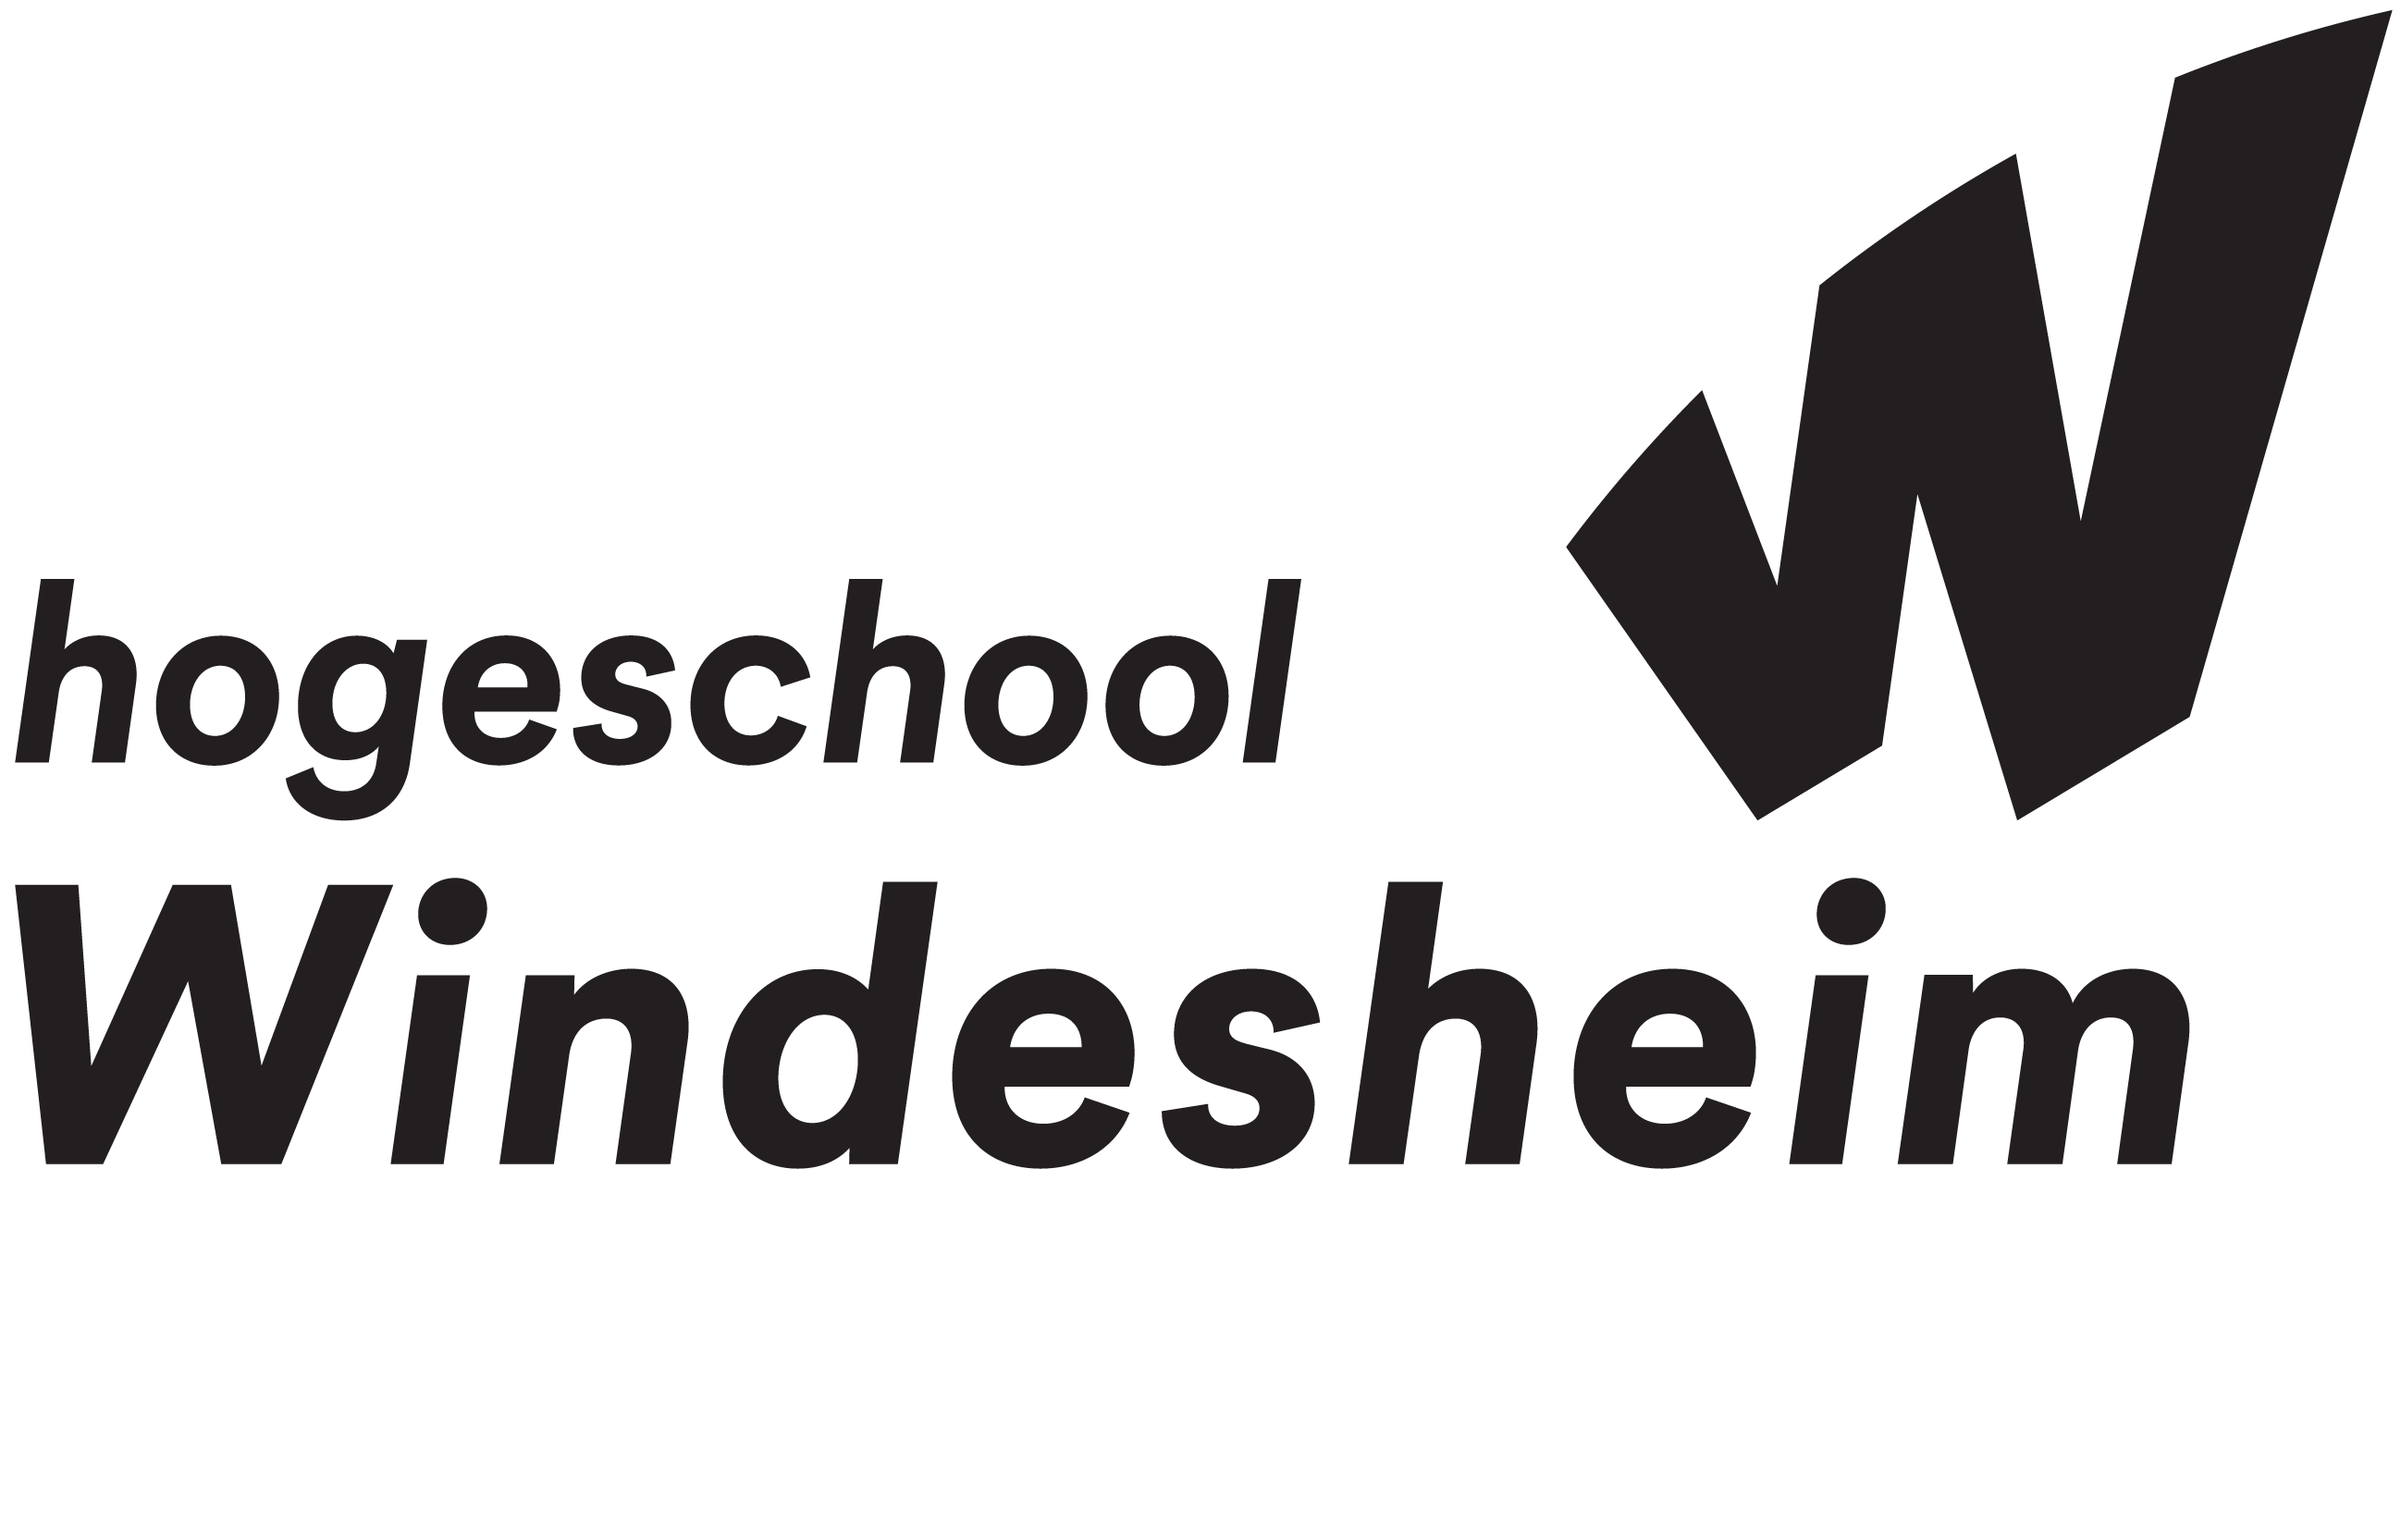
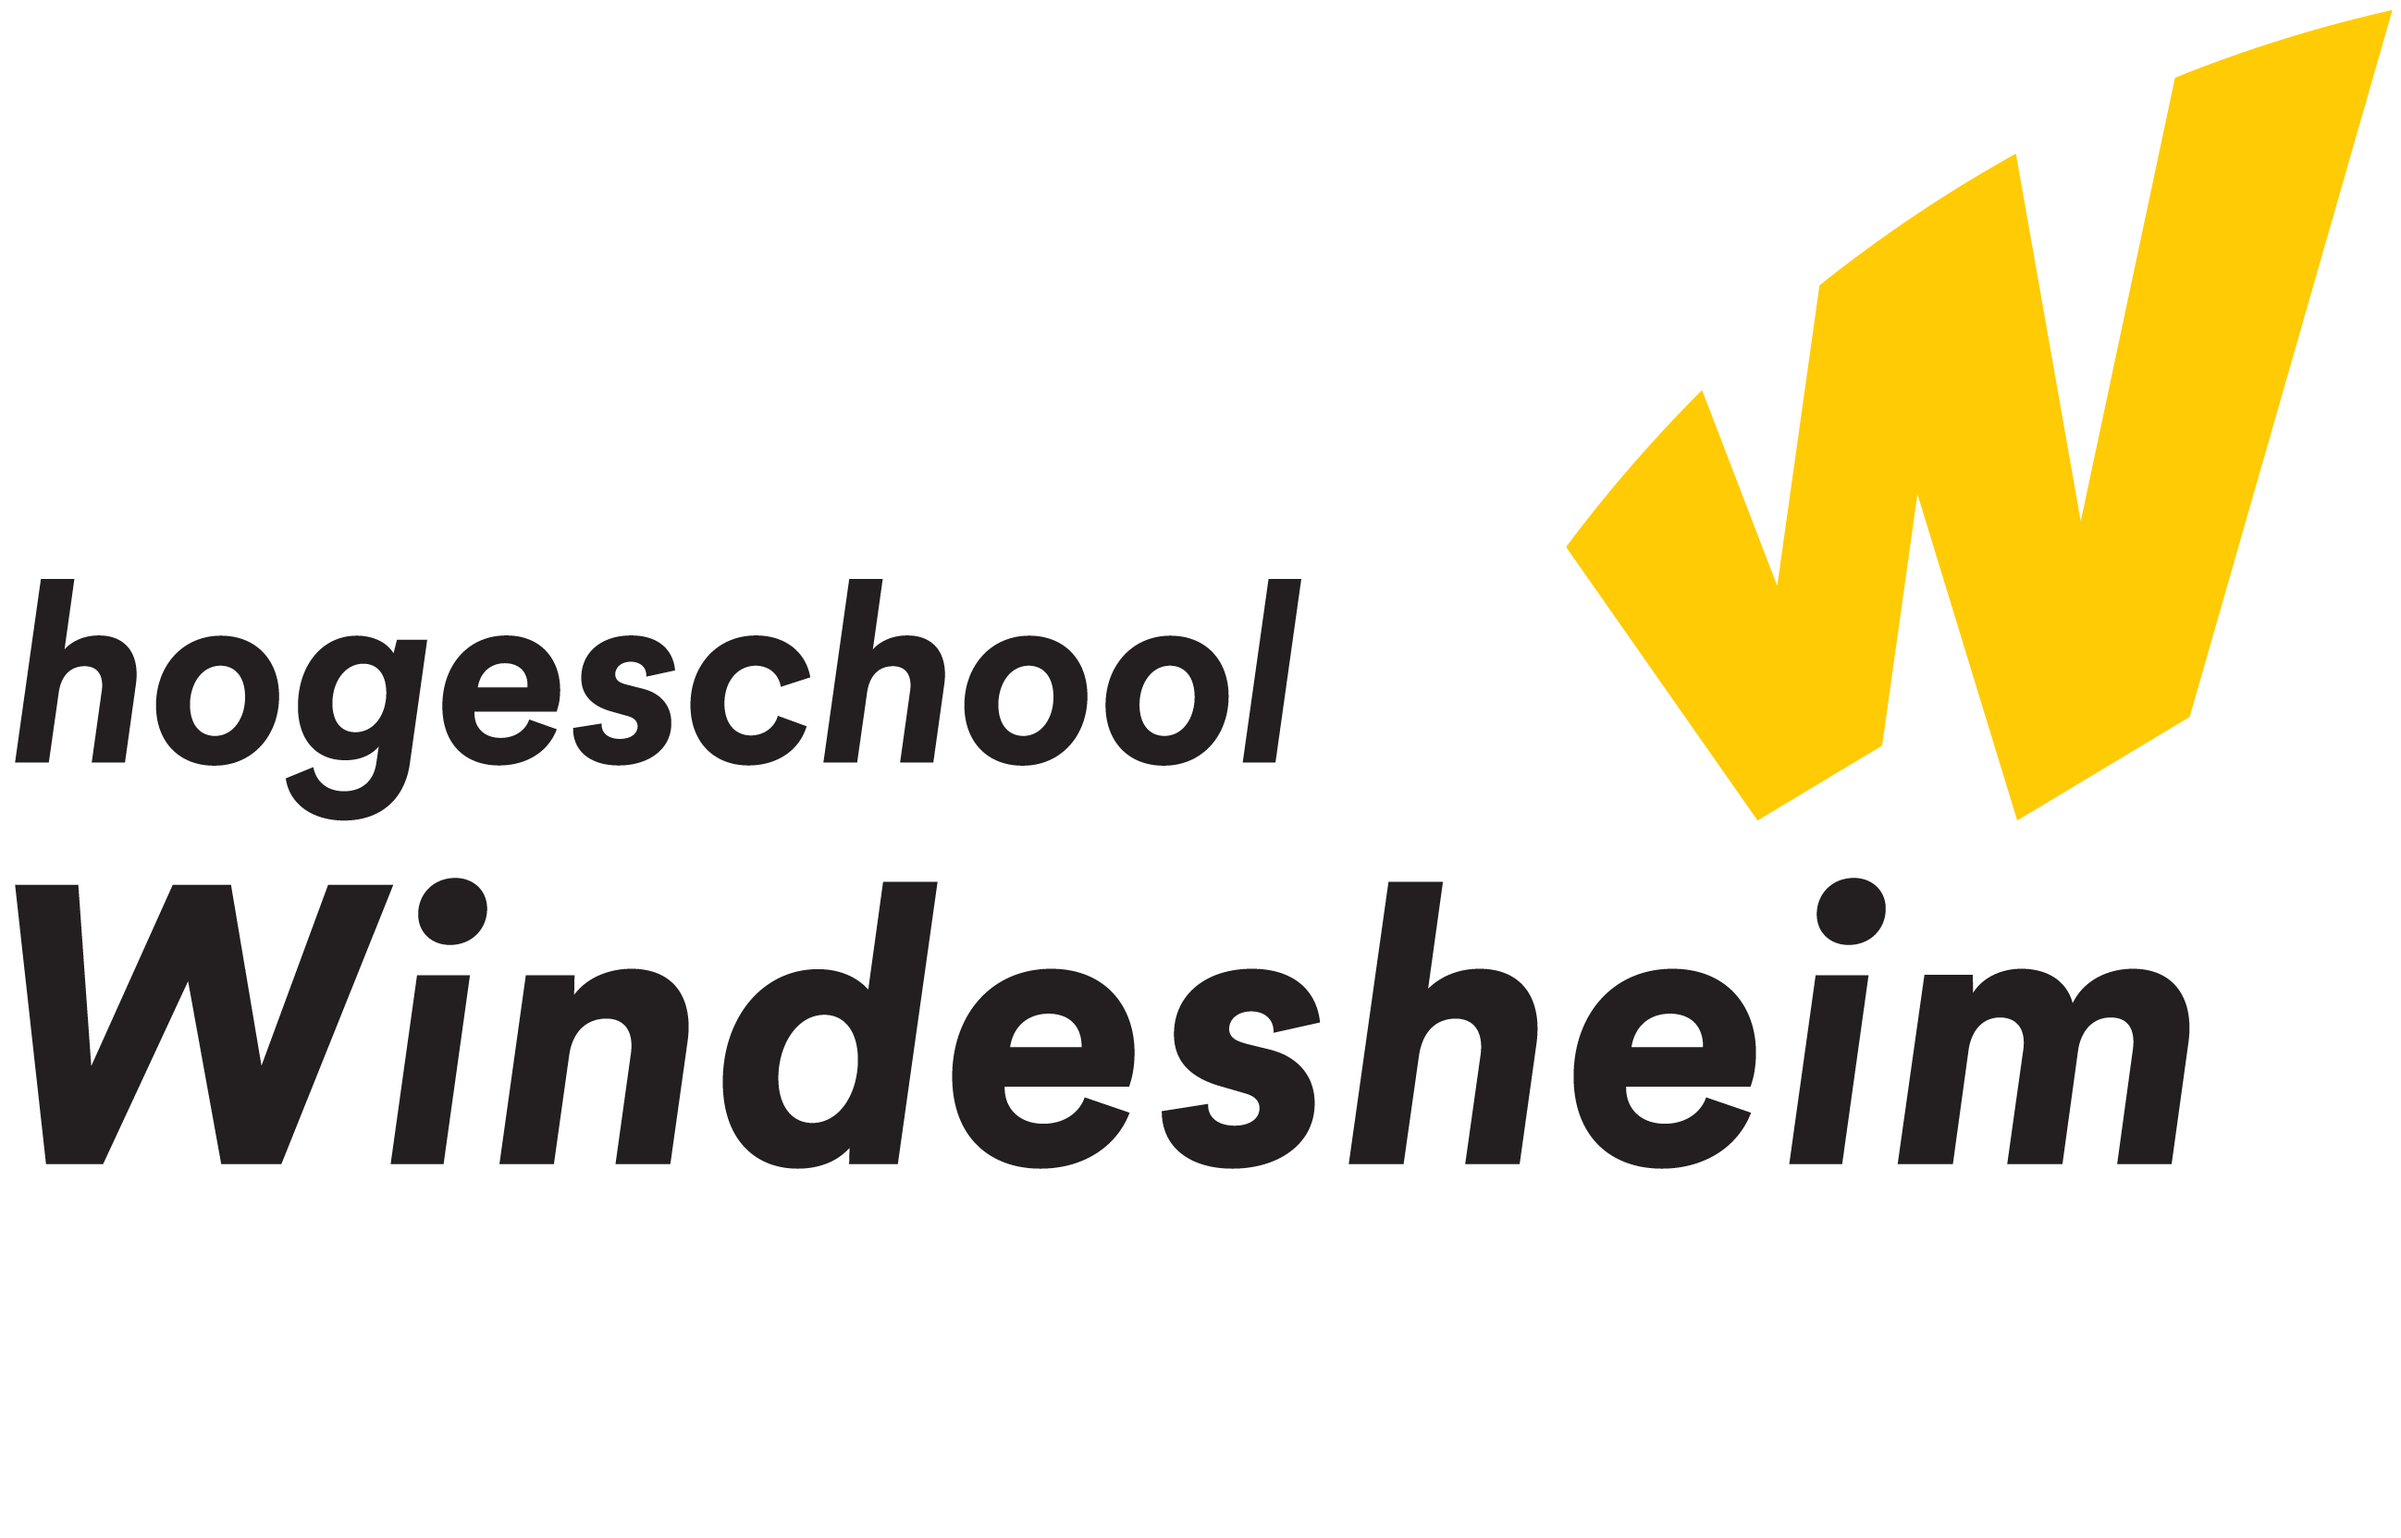
Grafiek update

Changed region(s): [[0.6552, 0.0, 0.9985, 0.552]]

diff --git a/smart_world/dashboard/templates/index.html b/smart_world/dashboard/templates/index.html
@@ -2,28 +2,26 @@
 {% block content %}
 {% load staticfiles %}
 <!-- <img src= "{% static 'images/background_picture.png' %}"> -->
-<div class="row">
+<div class="row" align="center">
     <div class="col" style="background-image:url('{% static 'images/background_picture.png' %}');">
-        <center>
-            <img src= "{% static 'images/Windesheim_logo.png' %}" height="150" width="250" alt="Text to display if image is not found">
-        </center>
+            <img src= "{% static 'images/wf2.png' %}" align="center" hspace="20"height="150" width="250" alt="Text to display if image is not found">
     </div>
 </div>
 <div class="row">
     <div class="col-6 text-center">
             <div class="center border-right" style="margin-top: 30px;">
-                <h3 style="font-family:Roboto;"><strong>Parkeergarage Windesheim Flevoland</strong></h3>
+                <h3><strong>Parkeergarage Windesheim Flevoland</strong></h3>
                 {% if empty_or_full_value %}
-                <button style="font-family:Roboto;" type="button" class="btn btn-success" style="padding: 10px 20px; font-size: 20px; border-radius: 10px; width:120px; font-family:Roboto;">Vrij</button>
+                <button type="button" class="btn btn-success" align="center"  style="padding: 10px 20px; font-size: 20px; border-radius: 10px; width:120px;">Vrij</button>
                 {% else %}
-                <button type="button" class="btn btn-danger" style="padding: 10px 20px; font-size: 20px; border-radius: 10px; width:120px; font-family:Roboto;">Vol</button>
+                <button type="button" class="btn btn-danger" align="center"  style="padding: 10px 20px; font-size: 20px; border-radius: 10px; width:120px;">Vol</button>
                 {% endif %}
             </div>
     </div>
     <div class="col-6 text-center">
         <div class="bezet" style="margin-top: 30px; margin-right: 100px;">
-                <h3 style="font-family:Roboto;"></h3style><strong>Plaatsen beschikbaar</strong></h3>
-            <p style="font-size:200%; font-family:Roboto;"> {{empty_or_full_value.count}}/{{sensor.count}}</p>
+                <h3><strong>Plaatsen beschikbaar</strong></h3>
+            <p style="font-size:200%;"> {{empty_or_full_value.count}}/{{sensor.count}}</p>
         </div>
     </div>
 </div>
@@ -31,10 +29,10 @@
 
 <hr>
 <!--Grafiek-->
-<p style="font-size:30px;"><b>Parkeerplaats grafiek</b></p>
-<div id="ParkeerGrafiek">
-    <div class="chart-container" style="position: relative; height:10vh; width:50vw">
-        <canvas id="myChart"></canvas>
+<p style="font-size:30px;" align="center"><b>Parkeerplaats grafiek</b></p>
+<div id="ParkeerGrafiek" align="center">
+    <div class="chart-container" style="position: relative;">
+        <canvas id="myChart" width="250" height="50"></canvas>
         <script src="{% static 'node_modules/chart.js/dist/Chart.js' %}"></script>
         <script>
             var ctx = document.getElementById('myChart').getContext('2d');
@@ -43,30 +41,23 @@
                 data: {
                     labels: [{% for graph in graphQuery %}'{{graph.created_at}}',{%endfor %}],
             datasets: [{
-                label: 'Parking availability',
+                label: 'Parkeerplekken beschikbaarheid',
                 data: [{% for graph in graphQuery %}{{graph.availability}},{%endfor %}],
 
-            backgroundColor: [
-                'rgba(255, 99, 132, 0.2)',
-            ],
-                borderColor
-            :
-            [
-                'rgba(255, 99, 132, 1)',
-            ],
-                borderWidth
-            :
-            1
-            }]
+            backgroundColor: ['rgba(0, 0, 0, 0)'],
+            borderColor:['rgba(255, 201, 4, 1)'],
+            pointRadius:2,
+            responsive: false,
+            pointHoverBorderWidth:75,
+            borderWidth: 2}]
             },
             options: {
-                scales: {
-                    yAxes: [{
-                        ticks: {
-                            beginAtZero: true
-                        }
-                    }]
-                }
+                legend: {display: true,
+                        position: 'bottom',
+             labels: {
+                
+            }
+        }
             }
             })
             ;
